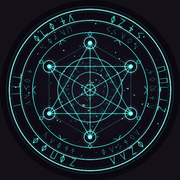
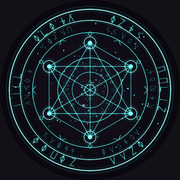
Brighten the outer perimeter path to match the other node connections

diff --git a/tools/gen_icon.py b/tools/gen_icon.py
@@ -158,8 +158,8 @@ for i in range(6):                                  # skip-one star diagonals
            joint="curve")
 for i in range(3):                                  # opposite diameters
     d.line([pts[i], pts[i + 3]], fill=MID, width=int(1.0 * S), joint="curve")
-for i in range(6):                                  # perimeter edges
-    d.line([pts[i], pts[(i + 1) % 6]], fill=DIM, width=int(1.0 * S),
+for i in range(6):                                  # outer perimeter edges
+    d.line([pts[i], pts[(i + 1) % 6]], fill=MID, width=int(1.2 * S),
            joint="curve")
 
 # node markers at the six vertices